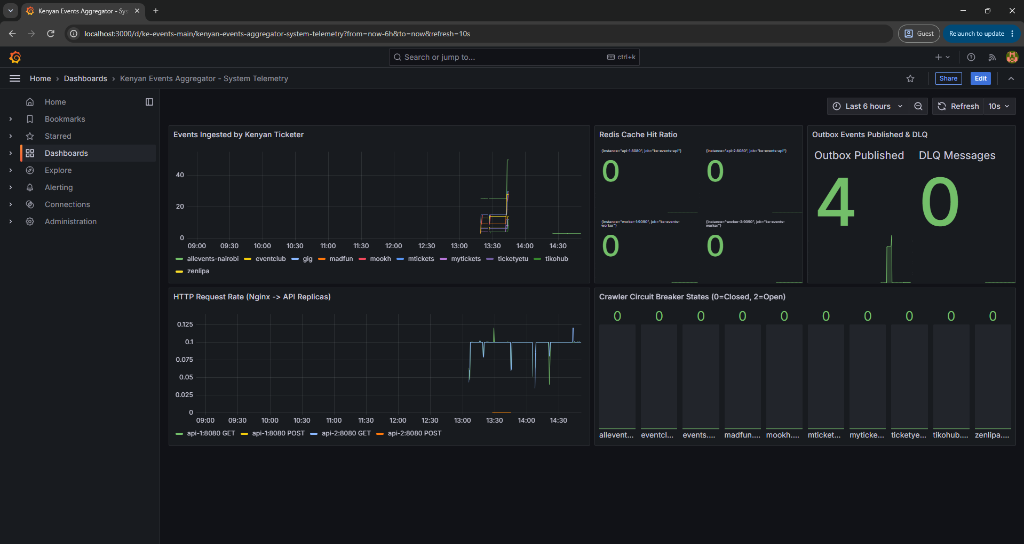
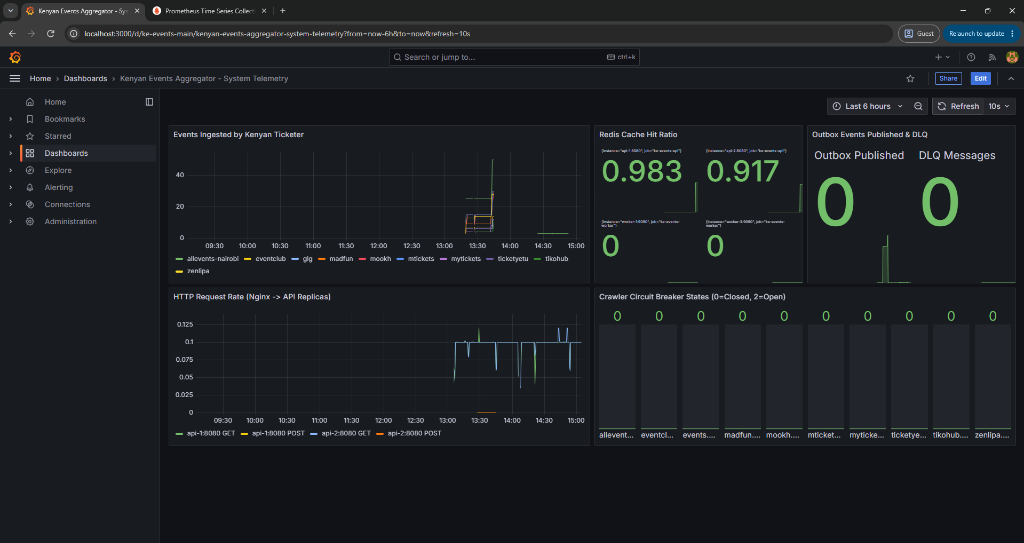
add Maina attribution, MIT license, and updated grafana/prometheus screenshots

diff --git a/internal/api/http.go b/internal/api/http.go
@@ -146,6 +146,7 @@ func (s *HTTPServer) handleListEvents(w http.ResponseWriter, r *http.Request) {
 		return
 	}
 	w.Header().Set("X-Served-By", s.InstanceID)
+	w.Header().Set("X-Powered-By", "Events Aggregator by Maina")
 	writeJSON(w, http.StatusOK, resp)
 }
 
@@ -368,9 +369,13 @@ func (s *HTTPServer) handleWebSocket(w http.ResponseWriter, r *http.Request) {
 func (s *HTTPServer) handleOpenAPI(w http.ResponseWriter, r *http.Request) {
 	spec := map[string]any{
 		"openapi": "3.0.3",
-		"info": map[string]string{
-			"title":   "Kenyan Events Aggregator API",
+		"info": map[string]any{
+			"title":   "Events Aggregator by Maina — Kenyan Events API",
 			"version": "1.0.0",
+			"contact": map[string]string{
+				"name": "Maina",
+				"url":  "https://github.com/tensorGT/kenya-events-aggregator",
+			},
 		},
 		"paths": map[string]any{
 			"/api/v1/events":     map[string]any{"get": map[string]string{"summary": "List & search Kenyan events"}},

diff --git a/internal/telemetry/telemetry.go b/internal/telemetry/telemetry.go
@@ -83,6 +83,7 @@ func InitTracer(ctx context.Context, serviceName, otlpEndpoint string) func(cont
 		sdktrace.WithResource(resource.NewWithAttributes(
 			semconv.SchemaURL,
 			semconv.ServiceName(serviceName),
+			semconv.ServiceNamespace("events-aggregator-by-maina"),
 		)),
 	)
 	otel.SetTracerProvider(tp)

diff --git a/README.md b/README.md
@@ -1,6 +1,6 @@
-# kenya-events-aggregator
+# Events Aggregator by Maina
 
-A headless, distributed **Kenyan Event Aggregation Service** written in **Go** (zero JavaScript), built to discover, normalize, deduplicate, and stream events from public Kenyan ticketing platforms.
+A headless, distributed **Kenyan Event Aggregation Service** written in **Go** (zero JavaScript) by **Maina** ([github.com/tensorGT](https://github.com/tensorGT)), built to discover, normalize, deduplicate, and stream events from public Kenyan ticketing platforms.
 
 Out of the box, it ships with **10 live Kenyan ticketer adapters** (pulling real events across Kenya), plus a generic endpoint ingestor so you can plug in any public JSON/REST/JSON-LD event feed and have it normalized into a single canonical schema.
 
@@ -99,6 +99,10 @@ curl "http://localhost:8080/api/v1/events?county=Nairobi&limit=10"
 Grafana comes pre-provisioned with the **Kenyan Events Aggregator - System Telemetry** dashboard:
 
 ![Kenyan Events Aggregator - System Telemetry](docs/grafana-telemetry.png)
+*Figure 1: Grafana dashboard showing live ingestion across 10 Kenyan ticketers, Redis Cache-Aside hit ratios (`0.983` on `api-1`, `0.917` on `api-2`), and closed circuit breakers.*
+
+![Prometheus Time Series - Events Ingested](docs/prometheus-telemetry.jpg)
+*Figure 2: Prometheus time-series graph of `ke_events_ingested_total` scraped from `worker-1` and `worker-2` across all 10 ticketer adapters.*
 
 To generate realistic traffic so **HTTP Request Rate** (balanced across `api-1` and `api-2`), **Redis Cache Hit Ratio**, **Events Ingested**, and **Outbox Published** light up in Grafana and Prometheus:
 
